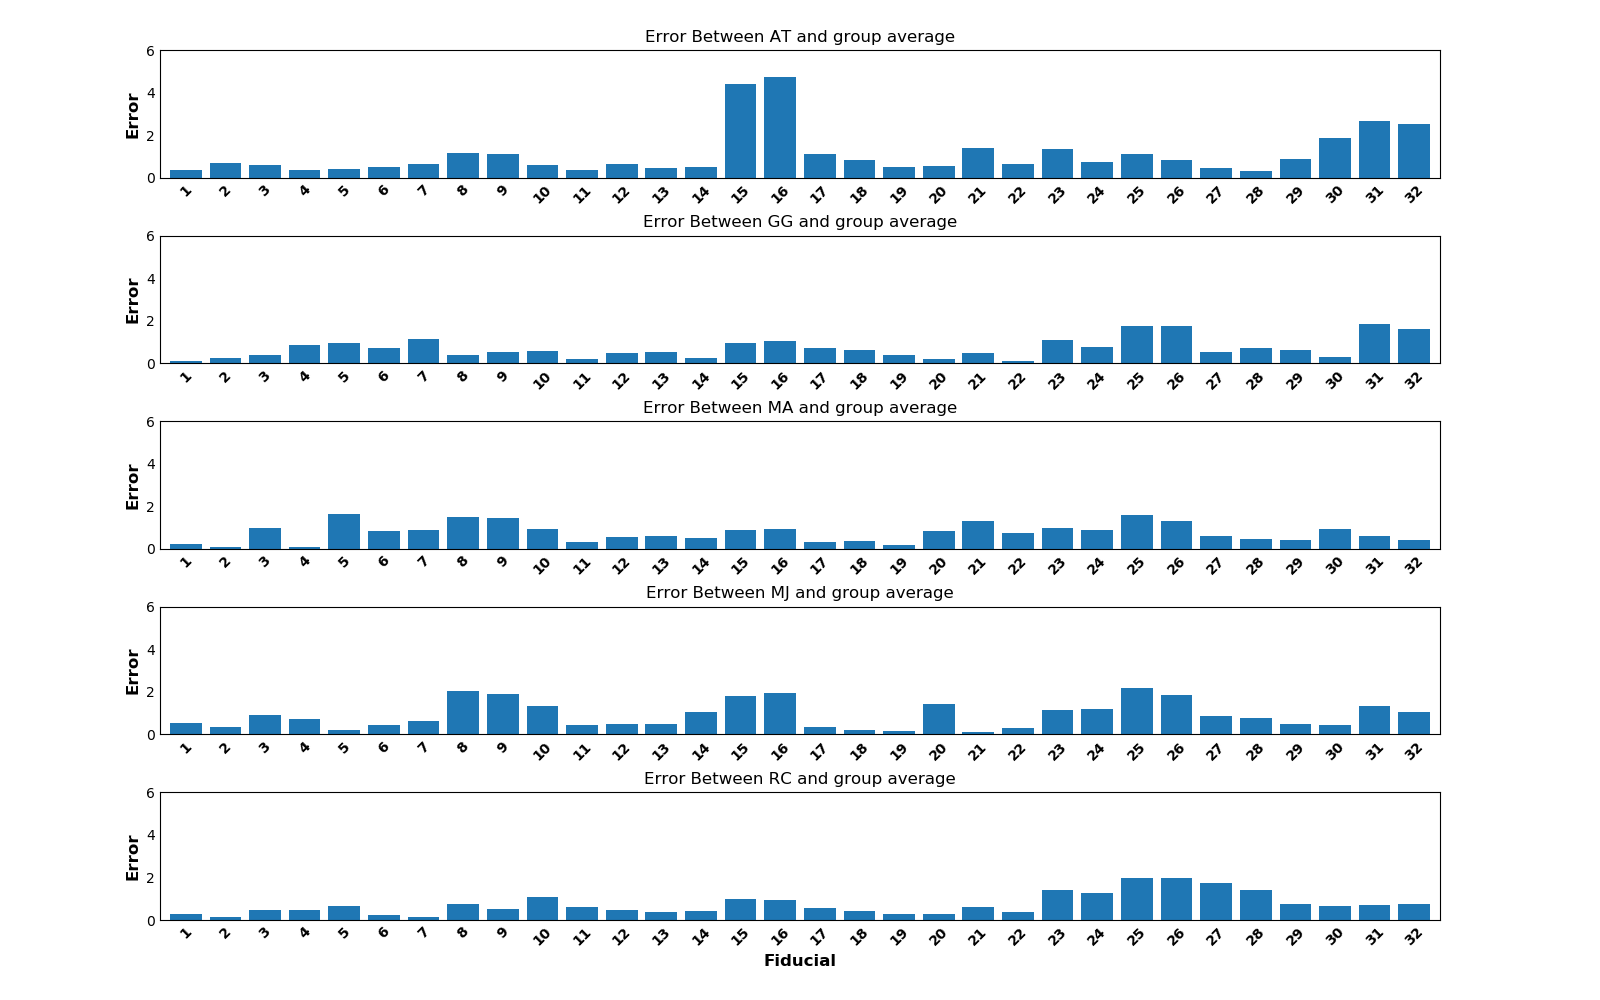
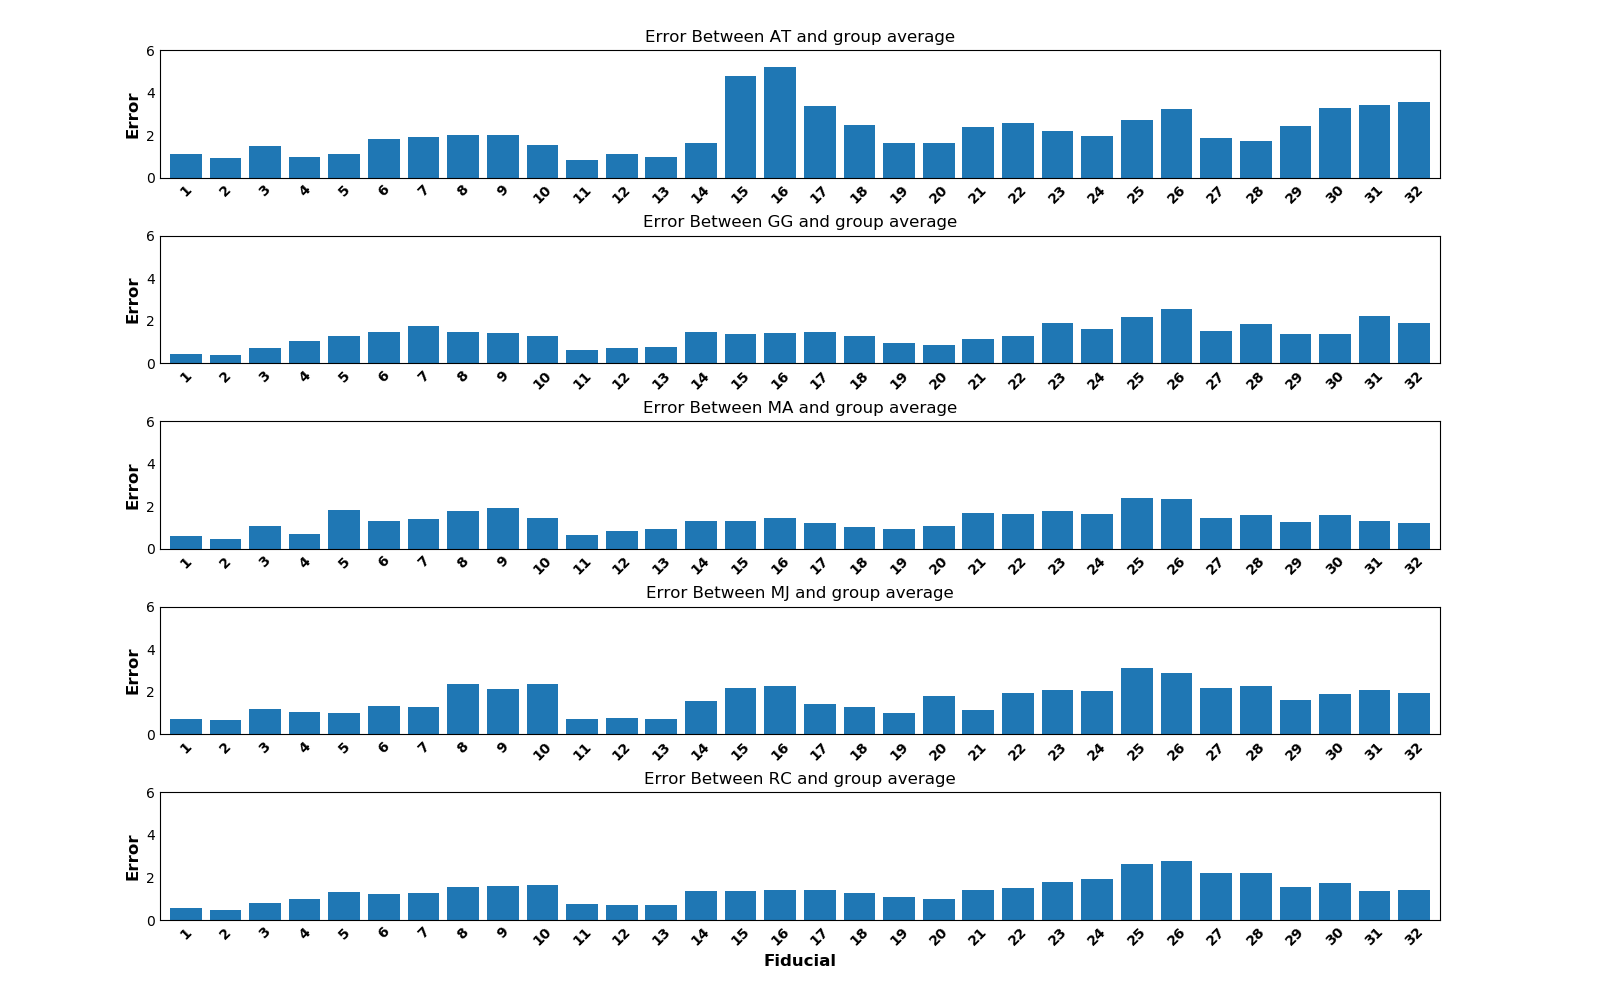
fixed errors

diff --git a/analysis/Fids_analysis.py b/analysis/Fids_analysis.py
@@ -18,8 +18,8 @@ plt.rcdefaults()
 plt.rc('xtick.major', size = 0, width=0)
 plt.rc('ytick.major', size = 0, width=0)
 
-#data_dir = r'/home/ggilmore/Documents/GitHub/afids_parkinsons/input/input_fid'
-data_dir = r'C:\Users\greydon\Documents\github\afids_parkinsons\input\input_fid'
+data_dir = r'/home/ggilmore/Documents/GitHub/afids_parkinsons/input/input_fid'
+#data_dir = r'C:\Users\greydon\Documents\github\afids_parkinsons\input\input_fid'
 
 show_only = True
 
@@ -28,14 +28,14 @@ sub_ignore = []
 #%%
 fid_dic = {1: 'AC',
 		   2: 'PC',
-		   3: 'infracol. sulcus',
+		   3: 'ICS',
 		   4: 'PMJ',
 		   5: 'SIPF',
 		   6: 'RSLMS',
 		   7: 'LSLMS',
 		   8: 'RILMS',
 		   9: 'LILMS',
-		   10: 'Culmen',
+		   10: 'CUL',
 		   11: 'IMS',
 		   12: 'RMB',
 		   13: 'LMB',
@@ -44,8 +44,8 @@ fid_dic = {1: 'AC',
 		   16: 'LLVAC',
 		   17: 'RLVPC',
 		   18: 'LLVPC',
-		   19: 'Genu',
-		   20: 'Splenium',
+		   19: 'GENU',
+		   20: 'SPLE',
 		   21: 'RALTH',
 		   22: 'LALTH',
 		   23: 'RSAMTH',
@@ -265,7 +265,7 @@ plot_fiducials(rater_mean, GS_total_mean, data_dir, 2, show_only)
 comparisons = [("GG", 'MA'),("GG", 'AT'),("GG", 'RC'),("GG", 'MJ'),("MA", 'AT'),
 			   ("MA", 'RC'),("MA", 'MJ'),("AT", 'RC'),("AT", 'MJ'),("RC", 'MJ')]
 
-max_val = 6.0
+max_val = 8.0
 
 fig, axes = plt.subplots(4, 2)
 plot_cnt = 0
@@ -278,16 +278,20 @@ for irow in range(4):
 		rater_2_data = Data_comp[Data_comp['rater'].isin([rater_2])].reset_index()
 		
 		rater_coor_Diff = rater_1_data.loc[:,'x':'z'].values.astype(float) - rater_2_data.loc[:,'x':'z'].values.astype(float)
-		
-		rater_coor_mean = pd.DataFrame(np.c_[rater_coor_Diff, rater_1_data['subject'].values.astype(int), rater_1_data['fid'].values.astype(int)]).groupby([4])[0,1,2].mean()
-		
-		rater_coor_error = pd.DataFrame(np.sqrt(rater_coor_mean.loc[:,0]**2 + rater_coor_mean.loc[:,1]**2 + rater_coor_mean.loc[:,2]**2))
+				
+		rater_coor_error = pd.DataFrame(np.sqrt(rater_coor_Diff[:,0]**2 + rater_coor_Diff[:,1]**2 + rater_coor_Diff[:,2]**2))
 		rater_coor_error.rename(columns={0:'error'}, inplace=True)
-		rater_coor_error['name']= [fid_dic[x] for x in np.unique(rater_1_data['fid'].values.astype(int))]
-		rater_coor_error['fid']= np.unique(rater_1_data['fid'].values.astype(int))
-
-		title = ' '.join(["Error Between",rater_1,'and',rater_2])
-		rater_coor_error[['error']].plot(kind='bar', title =title, ax=axes[irow,icol], legend=False, align='center', width=0.8)
+		fid_names = [fid_dic[x] for x in np.unique(rater_1_data['fid'].values.astype(int))]
+		rater_coor_error['name']= fid_names*int(len(rater_coor_Diff)/len(fid_names))
+		rater_coor_error['fid']= list(np.unique(rater_1_data['fid'].values.astype(int)))*int(len(rater_coor_Diff)/len(fid_names))
+		
+		rater_coor_error_plot = pd.DataFrame({})
+		rater_coor_error_plot['error'] = rater_coor_error.groupby(['fid'])['error'].mean().values
+		rater_coor_error_plot['name'] = fid_names
+		rater_coor_error_plot['fid'] = list(np.unique(rater_1_data['fid'].values.astype(int)))
+		
+		title = ' '.join(["Error Between", rater_1, 'and', rater_2])
+		rater_coor_error_plot[['error']].plot(kind='bar', title =title, ax=axes[irow,icol], legend=False, align='center', width=0.8)
 		if irow == 3:
 			axes[irow,icol].set_xlabel("Fiducial", fontsize=12, fontweight = 'bold')
 		else:
@@ -322,36 +326,42 @@ if not show_only:
 #%%
 rater_mean = Data_comp.groupby(['rater','fid'])['x','y','z'].mean().reset_index()
 
-max_val = 6.0
+afle = pd.DataFrame({})
+afle['subject'] = Data_comp['subject']
+afle['rater'] = Data_comp['rater']
+afle['fid'] = Data_comp['fid']
+raters_data = Data_comp.loc[:,['x','y','z']].values
+rater_data_avg = np.tile(Data_comp.groupby(['subject','fid'])['x','y','z'].mean().values[None,:], (len(raters), 1))[0]
+rater_diff = raters_data - rater_data_avg
+afle['euclid'] = pd.DataFrame(np.sqrt(rater_diff[:,0]**2 + rater_diff[:,1]**2 + rater_diff[:,2]**2)).values
+afle['x'] = rater_diff[:,0]
+afle['y'] = rater_diff[:,1]
+afle['z'] = rater_diff[:,2]
+
+afle_mean = afle.groupby(['rater','fid'])['euclid'].mean().values
+afle_mean_coords = afle.groupby(['rater','fid'])['x','y','z'].mean().values
 
 fig, axes = plt.subplots(5, 1)
-for irow in range(len(raters)):
-	rater_1 = raters[irow]
-#	rater_2 = [x for x in raters if x != rater_1]
-	rater_2 = raters
-
-	rater_1_data = rater_mean.loc[rater_mean['rater'].isin([rater_1]),:]
+max_val = 6.0
+fid_cnt = 0
+for irow in range(len(np.unique(afle['rater']))):
+	afle_mean_rater = pd.DataFrame({})
+	afle_mean_rater['error'] = afle_mean[fid_cnt:fid_cnt+32]
+	afle_mean_rater['fid'] = np.unique(Data_comp['fid'])
 	
-	rater_coor_Diff = rater_mean.loc[rater_mean['rater'].isin([rater_1]),:].groupby(['fid']).mean().values - rater_mean[rater_mean['rater'].isin(rater_2)].groupby(['fid'])['x','y','z'].mean().values
-	
-	rater_coor_error = pd.DataFrame(np.sqrt(rater_coor_Diff[:,0]**2 + rater_coor_Diff[:,1]**2 + rater_coor_Diff[:,2]**2))
-	rater_coor_error.rename(columns={0:'error'}, inplace=True)
-	rater_coor_error['name']= [fid_dic[x] for x in np.unique(rater_1_data['fid'].values.astype(int))]
-	rater_coor_error['fid']= np.unique(rater_1_data['fid'].values.astype(int))
-
-	title = ' '.join(["Error Between", rater_1, 'and group average'])
-	rater_coor_error.plot(kind='bar', x='fid', y='error', title =title, ax=axes[irow], legend=False, align='center', width=0.8)
+	title = ' '.join(["Error Between", np.unique(afle['rater'])[irow], 'and group average'])
+	afle_mean_rater.plot(kind='bar', x='fid', y='error', title =title, ax=axes[irow], legend=False, align='center', width=0.8)
 	if irow == (len(raters)-1):
 		axes[irow].set_xlabel("Fiducial", fontsize=12, fontweight = 'bold')
 	else:
 		axes[irow].xaxis.label.set_visible(False)
-		
 	axes[irow].set_ylabel("Error", fontsize=12, fontweight = 'bold')
-	
 	axes[irow].set_ylim([0,max_val])
 	axes[irow].set_xticklabels(axes[irow].get_xticklabels(), rotation=45, fontweight = 'bold')
 	
-fig.subplots_adjust(hspace=0.45, wspace=0.5, top=0.95, bottom=0.08, left=0.10, right=0.90) 
+	fid_cnt += 32
+
+fig.subplots_adjust(hspace=0.45, wspace=0.5, top=0.95, bottom=0.08, left=0.10, right=0.90)
 
 if not show_only:
 	output_temp = os.path.dirname(data_dir)
@@ -367,22 +377,93 @@ if not show_only:
 	fig.savefig(os.path.join(output_dir, file_name), dpi=100)
 	plt.close()
 
+afle_mean_coords_x = afle_mean_coords[:,0]
+afle_mean_coords_x = afle_mean_coords_x.reshape(5,32).T
+afle_mean_coords_y = afle_mean_coords[:,1]
+afle_mean_coords_y = afle_mean_coords_y.reshape(5,32).T
+afle_mean_coords_z = afle_mean_coords[:,2]
+afle_mean_coords_z = afle_mean_coords_z.reshape(5,32).T
+
+
+rater_labels = np.unique(afle['rater'])
+
+random.seed(1)
+color = ["#"+''.join([random.choice('0123456789ABCDEF') for j in range(6)]) for i in range(len(raters))]
+
+min_val = -2.5
+max_val = 2.5
+major_ticks = np.linspace(min_val,max_val, 7)
+
+fig = plt.figure(figsize=(18,8))
+handles = {}
+data_cnt = 0
+for ifid in range(4):
+	for jfid in range(8):
+		ax = plt.subplot2grid((4, 8),(ifid,jfid), projection='3d')
+
+		plot_title = 'Distance from the average of all raters'
+		file_name = 'distance_from_all_raters_mean.png'
+		tempData = [afle_mean_coords_x[data_cnt,:], afle_mean_coords_y[data_cnt,:], afle_mean_coords_z[data_cnt,:]]
+		
+		for i in range(len(rater_labels)): #plot each point + it's index as text above
+			l1 = ax.scatter(tempData[0][i], tempData[1][i], tempData[2][i], marker='o', c=color[i],edgecolors='black', s=50, label=rater_labels[i])
+			if rater_labels[i] not in handles:
+				handles[rater_labels[i]] = l1
+		 
+		ax.plot((min_val, min_val), (min_val, min_val), (min_val-0.1, max_val+0.1), 'black', linewidth=1.0)
+		
+		ax.set_xlim([min_val, max_val])
+		ax.set_ylim([min_val, max_val])
+		ax.set_zlim([min_val, max_val])
+		
+		ax.set_xlabel('x', labelpad=-15, fontweight='bold')
+		ax.set_ylabel('y', labelpad=-15, fontweight='bold')
+		ax.set_zlabel('z', labelpad=-15, fontweight='bold')
+		
+		ax.get_xaxis().set_ticklabels([])
+		ax.get_yaxis().set_ticklabels([])
+		ax.zaxis.set_ticklabels([])
+		ax.zaxis.set_major_locator(matplotlib.ticker.NullLocator())
+		
+		ax.set_xticks(major_ticks)
+		ax.set_yticks(major_ticks)
+		ax.set_zticks(major_ticks)
+		
+		ax.grid(which='major', alpha=0.5)
+		
+		ax.xaxis.pane.set_edgecolor('black')
+		ax.yaxis.pane.set_edgecolor('black')
+		ax.zaxis.pane.set_edgecolor('black')
+		ax.xaxis.pane.set_alpha(1)
+		ax.yaxis.pane.set_alpha(1)
+		ax.zaxis.pane.set_alpha(1)
+		ax.xaxis.pane.fill = False
+		ax.yaxis.pane.fill = False
+		ax.zaxis.pane.fill = False
+				
+		ax.view_init(elev=25, azim=44)
+		
+		ax.set_title(str(data_cnt+1) + ': ' + fid_dic[data_cnt+1], pad=5, fontweight='bold')
+
+		data_cnt += 1
+		
+fig.subplots_adjust(hspace=0.04, wspace=0.02, top=0.90, bottom=0.06, left=0.02,right=0.92) 
+plt.legend(handles=handles.values(), fontsize=12, bbox_to_anchor=[1.6, 2.5], handletextpad=0.05)
+fig.suptitle(plot_title, y = 0.98, fontsize=14, fontweight='bold')
+
+if not show_only:
+	output_temp = os.path.dirname(data_dir)
+	output_dir = os.path.join(os.path.dirname(output_temp), 'output', 'plots')
+	
+	if not os.path.exists(output_dir):
+		os.mkdir(output_dir)
+		
+	plt.savefig(os.path.join(output_dir, file_name))
+	plt.close()
+	
 #%%
 
-average_error_raters = []
-for irow in range(len(raters)):
-	rater_1 = raters[irow]
-	rater_2 = [x for x in raters if x != rater_1]
-
-	rater_1_data = rater_mean.loc[rater_mean['rater'].isin([rater_1]),:]
-	
-	rater_coor_Diff = rater_mean.loc[rater_mean['rater'].isin([rater_1]),:].groupby(['fid']).mean().values - rater_mean[rater_mean['rater'].isin(rater_2)].groupby(['fid'])['x','y','z'].mean().values
-	
-	average_error_raters.append(np.sqrt(rater_coor_Diff[:,0]**2 + rater_coor_Diff[:,1]**2 + rater_coor_Diff[:,2]**2).T)
-	
-average_error_raters = np.mean(average_error_raters, axis=0)
-
-plt.bar(np.arange(1,33,1),average_error_raters)
+plt.bar(np.arange(1,33,1),np.mean(afle_mean.reshape(5,32).T,1))
 plt.xticks(np.arange(1,33,1), np.arange(1,33,1), rotation=45, fontweight = 'bold')
 plt.xlabel("Fiducial", fontsize=12, fontweight = 'bold')
 plt.ylabel("Error", fontsize=12, fontweight = 'bold')

diff --git a/analysis/Fids_analysis.m b/analysis/Fids_analysis.m
@@ -2,9 +2,9 @@ clear
 clc
 fclose('all');
 
-% data_dir = 'C:\Users\greydon\Documents\github\afids_parkinsons\input\input_fid';
+data_dir = '/home/ggilmore/Documents/GitHub/afids_parkinsons/input/input_fid';
 % data_dir = 'D:\School\Residency\Research\FIDs Study\Github\afids_parkinsons\input\input_fid';
-data_dir = 'C:\Users\moham\Documents\GitHub\afids_parkinsons\input\input_fid';
+%data_dir = 'C:\Users\moham\Documents\GitHub\afids_parkinsons\input\input_fid';
 
 sub_ignore = [];
 
@@ -132,7 +132,7 @@ NGS_mean =  squeeze(mean(Tot_Data(:,:,:,~ismember(raters,GS_raters)),4));
 Tot_mean = squeeze(mean(Tot_Data(:,:,:,:),4));
 
 % Outliers
-
+test =repmat(Tot_mean,1,1,1,length(raters));
 Tot_diff = Tot_Data - repmat(Tot_mean,1,1,1,length(raters));
 Tot_eudiff = sqrt(Tot_diff(:,2,:,:).^2 + Tot_diff(:,3,:,:).^2 + Tot_diff(:,4,:,:).^2);
 Outlier = Tot_eudiff > 10;
